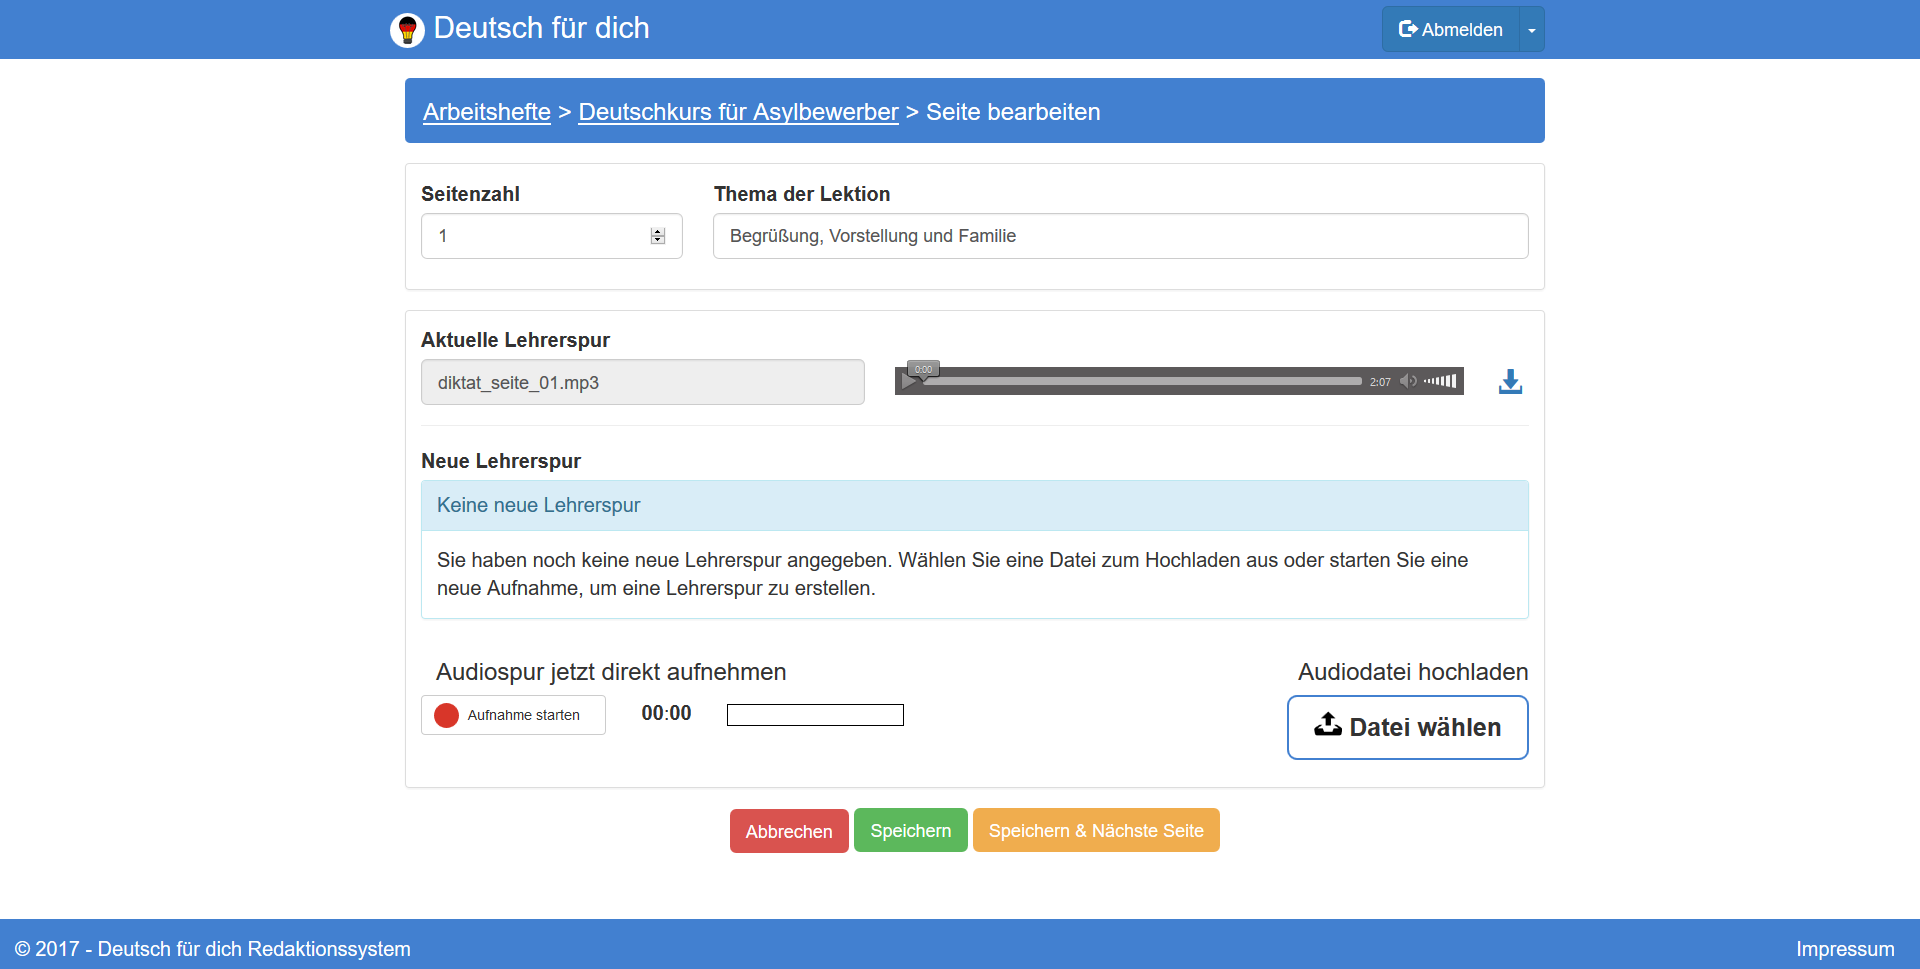
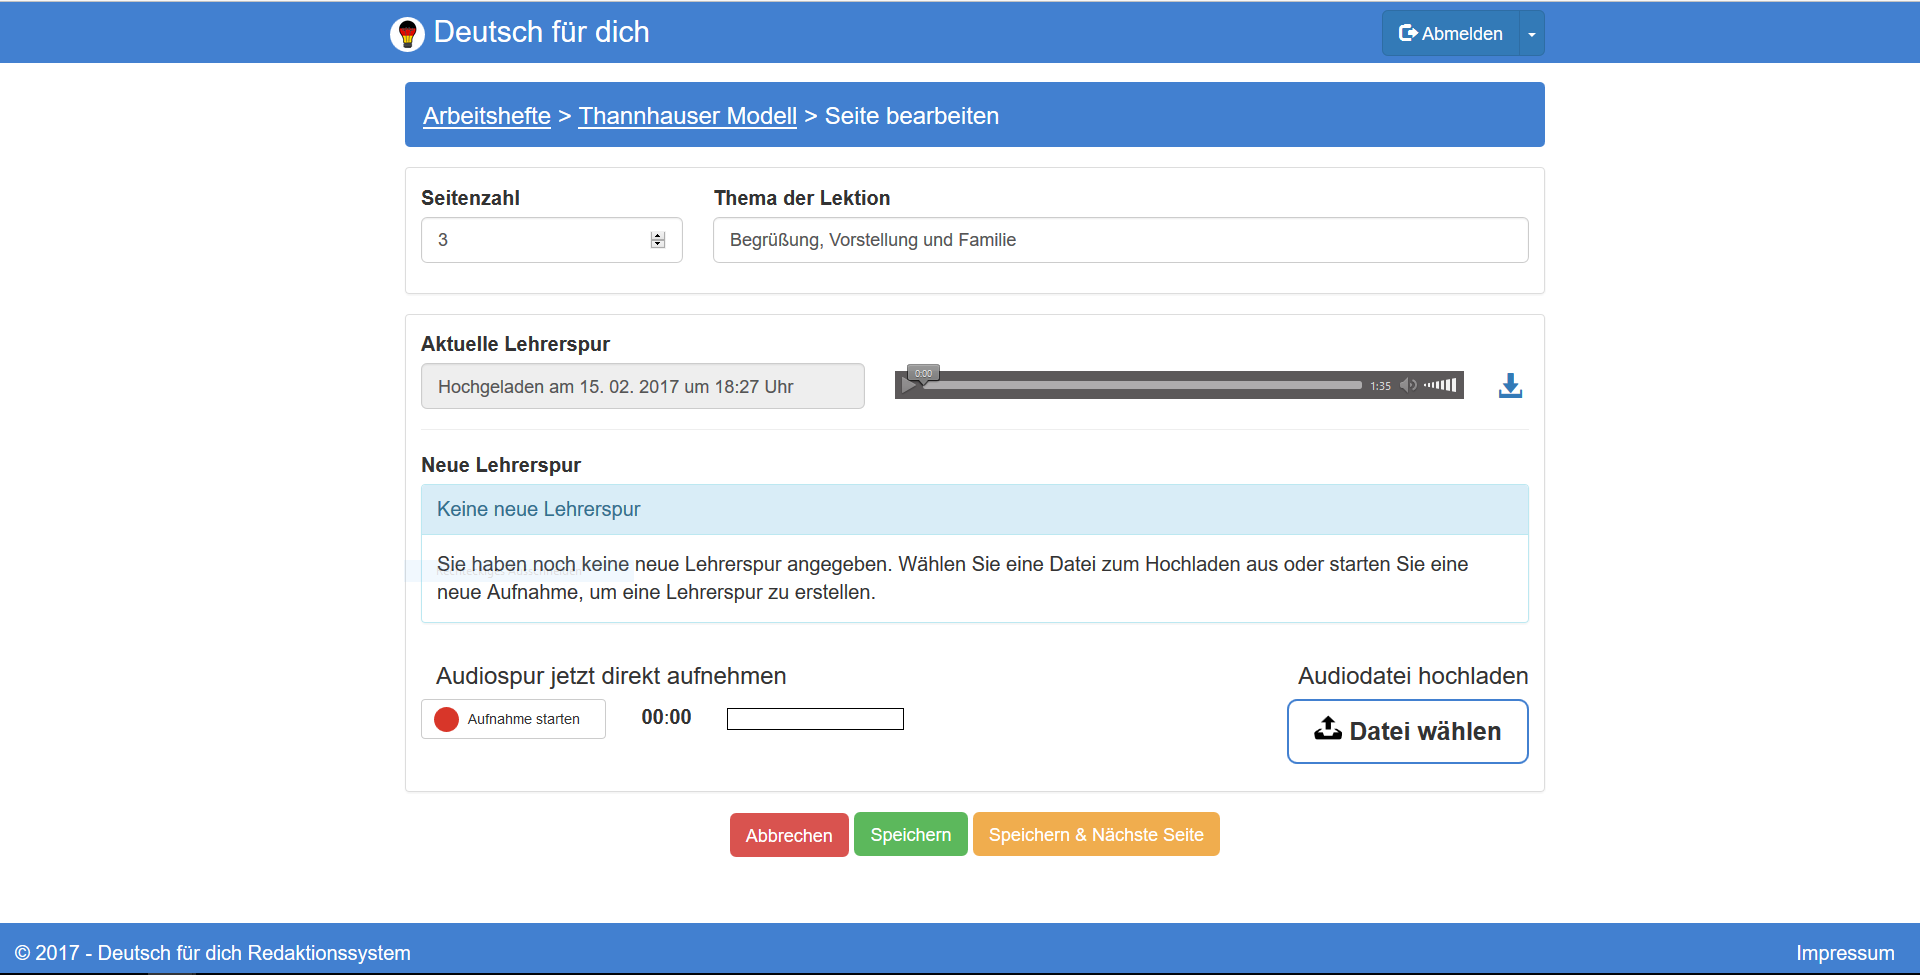
update user docs: minor fixes

diff --git a/Lingvo/Documents/BenutzerdokumentationRedaktionssystem.md b/Lingvo/Documents/BenutzerdokumentationRedaktionssystem.md
@@ -39,7 +39,7 @@ Soll ein neues Arbeitsheft hinzugefügt werden, kann der grüne Knopf "Neues Arb
 
 ![](ScreenshotsRedaktionssystem/NeuesArbeitsheft.png)
 
-Der Nutzer gibt nun den Titel ein, der sich von den Titeln der bisher existenten Arbeitshefte unterscheiden muss. Bei Bedarf kann auch ein Untertitel eingegeben werden, dies ist aber kein muss. Soll das Arbeitsheft angelegt werden, klickt der Nutzer auf Speichern, andernfalls auf Abbrechen.
+Der Nutzer gibt nun den Titel ein, der sich von den Titeln der bisher existenten Arbeitshefte unterscheiden muss. Bei Bedarf kann auch ein Untertitel eingegeben werden, dies ist aber kein Muss. Soll das Arbeitsheft angelegt werden, klickt der Nutzer auf Speichern, andernfalls auf Abbrechen.
 
 ###### 2.1.2 Arbeitsheft bearbeiten
 
@@ -53,7 +53,7 @@ Der Redakteur kann jetzt Titel und Untertitel bearbeiten und anschließend speic
 
 #### 2.2 Seiten verwalten
 
-Möchte man sich alle Seiten eines Anrbeitshefts anzeigen lassen, so klickt man in der Übersichtsseite der Arbeitshefte auf den Titel des gewünschten. Die nächste Abbildung zeigt, wie so eine Seitenübersicht aussehen kann.
+Möchte man sich alle Seiten eines Arbeitshefts anzeigen lassen, so klickt man in der Übersichtsseite der Arbeitshefte auf den Titel des gewünschten Heftes. Die nächste Abbildung zeigt, wie so eine Seitenübersicht aussehen kann.
 
 ![](ScreenshotsRedaktionssystem/SeitenÜbersicht.png)
 
@@ -61,22 +61,22 @@ Zu jeder Seite ist die Seitennummer und gegebenfalls eine Beschreibung in der Li
 
 Auch hier gibt es wieder drei Symbolknöpfe am Ende jeder Tabellenzeile:
 * Der Stift dient dazu, die Seite zu bearbeiten. Neben Beschreibung und Seitenzahl kann auch eine neue Audiodatei hochgeladen werden.
-* Mit einem Klick auf den Download-Knopf kann die aktuelle Audiodatei zur Seite auf den Rechner heruntergeladen werden, beispielsweise falls sie nachbearbeitet werden soll.
+* Mit einem Klick auf den Download-Knopf kann die aktuelle Audiodatei zur Seite auf den Rechner heruntergeladen werden, falls sie beispielsweise nachbearbeitet werden soll.
 * Die Mülltonne dient wieder dem Löschen. Wird sie ausgewählt, werden alle Daten der Seite inklusive der Audiodatei gelöscht und können nicht wiederhergestellt werden.
 
 ###### 2.2.1 Seite erstellen
 
-Eine neue Seite kann über den grünen "Neue Seite"-Knopf in der Kopfzeile erstellt werden. Es öffnet sich folgende Seite:
+Eine neue Seite kann über den grünen "Neue Seite"-Knopf in der Kopfzeile erstellt werden. Es öffnet sich folgende Ansicht:
 
 ![](ScreenshotsRedaktionssystem/NeueSeite.png)
 
-In den oberen Textfeldern gibt der Redakteur die Seitenzahl und das Thema der Seite ein, dem späteren Untertitel. Wichtig ist, dass die Seitenzahl bisher noch bei keiner anderen Seite aus dem selben Arbeitsheft existiern darf. Durch einen Informationstext wird angezeigt, dass bisher noch keine Lehrerspur ausgwählt wurde. Nun gibt es zwei Möglichkeiten, eine Audiodatei zur neuen Seite hinzuzufügen.
+In den oberen Textfeldern gibt der Redakteur die Seitenzahl und das Thema der Seite ein, dem späteren Untertitel. Wichtig ist, dass die Seitenzahl bisher noch bei keiner anderen Seite aus dem selben Arbeitsheft existiern darf. Durch einen Informationstext wird angezeigt, dass bisher noch keine Lehrerspur ausgewählt wurde. Nun gibt es zwei Möglichkeiten, eine Audiodatei zur neuen Seite hinzuzufügen.
 
-Hat man bereits eine fertige Audiodatei auf seinem Computer gespeichert, kann man auf der rechten Seite den "Datei wählen"-Knopf benutzen. Ein Auswahlfenster öffnet sich, wo man die richtige Datei wählt und bestätigt. Das Redaktionssystem gibt durch folgende Oberfläche Rückmeldung über das erfolgreiche Hochladen:
+Hat man bereits eine fertige Audiodatei auf seinem Computer gespeichert, kann man auf der rechten Seite den "Datei wählen"-Knopf benutzen. Ein Auswahlfenster öffnet sich, wo man die richtige Datei wählt und bestätigt. Das Redaktionssystem gibt durch folgende Oberfläche Rückmeldung über die erfolgreiche Auswahl:
 
 ![](ScreenshotsRedaktionssystem/NeueSeiteDateiHochgeladen.png)
 
-Der Name der hochgeladen Datei ist nun im Informationsfenster enthalten. Auf der rechten Seite kann man sich die Datei nochmals anhören.
+Der Name der gewählten Datei ist nun im Informationsfenster enthalten. Auf der rechten Seite kann man sich die Datei nochmals anhören.
 
 Hat der Redakteur noch keine fertige Audiodatei, kann er hier eine neue aufnehmen. Dazu klickt er auf der linken Seite auf den "Aufnahme starten"-Knopf. Wichtig ist, dass man dem Browser vorher erlaubt hat, das Mikrofon zu benutzen, sonst funktioniert das Aufnehmen nicht. Läuft die Aufnahme, wird dies folgendermaßen angezeigt:
 
@@ -90,13 +90,15 @@ Nun zeigt der Informationstext an, dass eine Aufnahme die aktuelle Lehrerspur da
 
 Hat der Redakteur sich für eine Audiodatei entschieden, klickt er entweder auf "Speichern" und landet wieder in der Seitenübersicht des Arbeitshefts, oder auf "Speichern & Nächste Seite", falls er gleich mit dem Anlegen der nächsten Seite weitermachen möchte.
 
+**Hinweis:** Verlässt der Redakteur die Seite, ohne zu Speichern - z.B. durch Schließen des Fensters oder durch Abbrechen - so gehen die eingegebenen Daten oder neu gemachten Aufnahmen verloren. Aus diesem Grund erscheint eine Warnung des Browsers.
+
 ###### 2.2.2 Seite bearbeiten
 
 Durch einen Klick auf das Stiftsymbol in der Seitenübersicht kann wie in der folgenden Abbildung gezeigt eine Seite bearbeitet werden.
 
 ![](ScreenshotsRedaktionssystem/SeiteBearbeiten.png)
 
-Der Redakteur kann Seitenzahl und Beschreibung ändern, aber auch eine neue Audiodatei auswählen. Welche Möglichkeiten es hier gibt, wurde bereits in Abschnitt 2.2.1 beschrieben und kann dort nachgelesen werden. Auch hier darf die Seitenzahl noch nicht an eine bereits dem selben Arbeitsheft zugeordeten Seite vergeben sein. Im Informationsfeld findet sich der Name bzw. der Aufnahmezeitpunkt der aktuellen Lehrerspur, daneben kann man sie sich nochmals anhören oder auch herunterladen.
+Der Redakteur kann Seitenzahl und Beschreibung ändern, aber auch eine neue Audiodatei auswählen. Welche Möglichkeiten es hier gibt, wurde bereits in Abschnitt 2.2.1 beschrieben und kann dort nachgelesen werden. Auch hier darf die Seitenzahl noch nicht an eine bereits dem selben Arbeitsheft zugeordeten Seite vergeben sein. Im Informationsfeld findet sich der Hochlade- bzw. Aufnahmezeitpunkt der aktuellen Lehrerspur, daneben kann man sie sich nochmals anhören oder auch herunterladen.
 
 **Hinweis:** Über einen Klick auf den Namen des Arbeitshefts in der Kopfzeile kann zur Übersicht über die Seiten gewechselt werden. Die Auswahl von "Arbeitshefte" in der Kopfzeile springt zurück zur Übersicht über alle verfügbaren Arbeitshefte.
 
